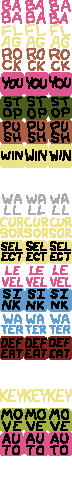
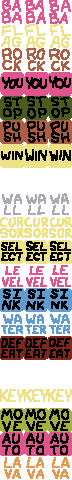
add LAVA, and properly tile units

Changed region(s): [[0.3611, 0.9375, 0.6111, 1.0], [0.7222, 0.9375, 0.9722, 1.0], [0.0556, 0.9375, 0.3056, 1.0]]

diff --git a/src/view.rs b/src/view.rs
@@ -17,7 +17,7 @@ use baba::{
     game::Game,
     lex::lex,
     rule::{Rules, parse},
-    unit::{Atlas, Facing, Property, Unit, lookup_unit},
+    unit::{Atlas, Facing, Noun, Property, Unit, lookup_unit},
     world::{
         Direction::{self},
         Grid, Pos,
@@ -137,6 +137,7 @@ impl Viewer {
         viewer.store_texture("sprites", "assets/sprites.png").await?;
         viewer.store_texture("words", "assets/words.png").await?;
         viewer.store_texture("particles", "assets/particles.png").await?;
+        viewer.store_texture("tiles", "assets/tiles.png").await?;
         Ok(viewer)
     }
 
@@ -207,18 +208,19 @@ impl Viewer {
         let mut units = grid.units_with_pos().collect::<Vec<(Pos, &Unit)>>();
         units.sort_unstable_by_key(|(_, unit)| lookup_unit(unit.kind()).group);
         for (pos, unit) in units {
-            self.draw_unit(unit, pos, layout, wobble);
+            self.draw_unit(grid, unit, pos, layout, wobble);
         }
     }
 
-    fn draw_unit(&self, unit: &Unit, pos: Pos, layout: &Layout, wobble: usize) {
+    fn draw_unit(&self, grid: &Grid, unit: &Unit, pos: Pos, layout: &Layout, wobble: usize) {
         let data = lookup_unit(unit.kind());
         let texture = self.atlas_texture(&data.sprite.atlas);
-        let (column, flip_x) = sprite_column(data.sprite.atlas, data.sprite.facing, unit.direction(), wobble);
+        let (column, flip_x) = sprite_column(grid, unit, pos, wobble);
+        let row = sprite_row(unit, wobble);
         let params = DrawTextureParams {
             source: Some(Rect {
                 x: column as f32 * TILE_SIZE,
-                y: data.sprite.row as f32 * TILE_SIZE,
+                y: row as f32 * TILE_SIZE,
                 w: TILE_SIZE,
                 h: TILE_SIZE,
             }),
@@ -234,6 +236,7 @@ impl Viewer {
         match atlas {
             Atlas::Sprites => &self.textures["sprites"],
             Atlas::Words => &self.textures["words"],
+            Atlas::Tiled => &self.textures["tiles"],
         }
     }
 
@@ -295,18 +298,44 @@ fn direction_index(direction: Direction) -> usize {
     }
 }
 
+// TODO(jw) PERF: Should this be a cached property on the unit?
+fn tiled_index(grid: &Grid, pos: Pos, noun: Noun) -> usize {
+    const DIRS: [Direction; 4] = [Direction::East, Direction::North, Direction::West, Direction::South];
+    let mut index = 0;
+    for (i, dir) in DIRS.iter().enumerate() {
+        let shift = pos.shift(*dir);
+        if !grid.in_bounds(shift) || grid.at(shift).units().iter().any(|u| u.noun() == noun) {
+            index |= 1 << i;
+        }
+    }
+    index
+}
+
+/// Returns column from the spritesheet for this sprite, and whether or not it should be drawn flipped
+fn sprite_column(grid: &Grid, unit: &Unit, pos: Pos, wobble: usize) -> (usize, bool) {
+    let data = lookup_unit(unit.kind());
+    match data.sprite.atlas {
+        Atlas::Words => (wobble, false),
+        Atlas::Tiled => (tiled_index(grid, pos, unit.noun()), false),
+        Atlas::Sprites => {
+            let (dir, flip) = sprite_facing(unit.direction(), data.sprite.facing);
+            (wobble * 3 + dir, flip)
+        }
+    }
+}
+
+fn sprite_row(unit: &Unit, wobble: usize) -> usize {
+    let data = lookup_unit(unit.kind());
+    match data.sprite.atlas {
+        Atlas::Sprites | Atlas::Words => data.sprite.row,
+        Atlas::Tiled => data.sprite.row + wobble,
+    }
+}
+
 fn sprite_facing(direction: Direction, facing: Facing) -> (usize, bool) {
     match facing {
         Facing::Fixed => (0, false),
         Facing::Directional => (direction_index(direction), direction == Direction::West),
+        _ => (0, false),
     }
-}
-
-fn sprite_column(atlas: Atlas, facing: Facing, direction: Direction, wobble: usize) -> (usize, bool) {
-    let (dir, flip) = sprite_facing(direction, facing);
-    let stride = match atlas {
-        Atlas::Sprites => 3,
-        Atlas::Words => 1,
-    };
-    (wobble * stride + dir, flip)
 }

diff --git a/src/unit.rs b/src/unit.rs
@@ -4,6 +4,7 @@ use crate::world::Direction;
 pub enum Atlas {
     Sprites,
     Words,
+    Tiled,
 }
 
 #[derive(Clone, Copy, Debug, PartialEq, Eq)]
@@ -67,6 +68,19 @@ const fn object(noun: Noun, code: &'static str, row: usize, facing: Facing, grou
     }
 }
 
+const fn tiled(noun: Noun, code: &'static str, row: usize, group: UnitGroup) -> UnitTypeData {
+    UnitTypeData {
+        kind: UnitKind::Object(noun),
+        code,
+        sprite: Sprite {
+            atlas: Atlas::Tiled,
+            facing: Facing::Fixed,
+            row,
+        },
+        group,
+    }
+}
+
 const UNIT_TYPES: &[UnitTypeData] = &[
     word(Text::Noun(Noun::Baba), "BA", 0),
     word(Text::Noun(Noun::Flag), "FL", 1),
@@ -87,6 +101,7 @@ const UNIT_TYPES: &[UnitTypeData] = &[
     word(Text::Noun(Noun::Key), "KE", 16),
     word(Text::Property(Property::Move), "MO", 17),
     word(Text::Property(Property::Auto), "AU", 18),
+    word(Text::Noun(Noun::Lava), "LA", 19),
     object(Noun::Baba, "ba", 0, Facing::Directional, UnitGroup::Characters),
     object(Noun::Flag, "fl", 1, Facing::Fixed, UnitGroup::Item),
     object(Noun::Rock, "ro", 2, Facing::Fixed, UnitGroup::Item),
@@ -94,8 +109,9 @@ const UNIT_TYPES: &[UnitTypeData] = &[
     object(Noun::Cursor, "cu", 4, Facing::Fixed, UnitGroup::Text),
     object(Noun::Level, "le", 5, Facing::Fixed, UnitGroup::Ground),
     object(Noun::Path, "pa", 6, Facing::Fixed, UnitGroup::Ground),
-    object(Noun::Water, "wt", 7, Facing::Fixed, UnitGroup::Liquid),
     object(Noun::Key, "ke", 8, Facing::Fixed, UnitGroup::Item),
+    tiled(Noun::Water, "wt", 1, UnitGroup::Liquid),
+    tiled(Noun::Lava, "la", 4, UnitGroup::Liquid),
 ];
 
 pub fn lookup_unit(kind: UnitKind) -> &'static UnitTypeData {
@@ -118,6 +134,7 @@ pub enum Noun {
     Path,
     Water,
     Key,
+    Lava,
 }
 
 #[derive(Clone, Copy, Debug, PartialEq, Eq)]
